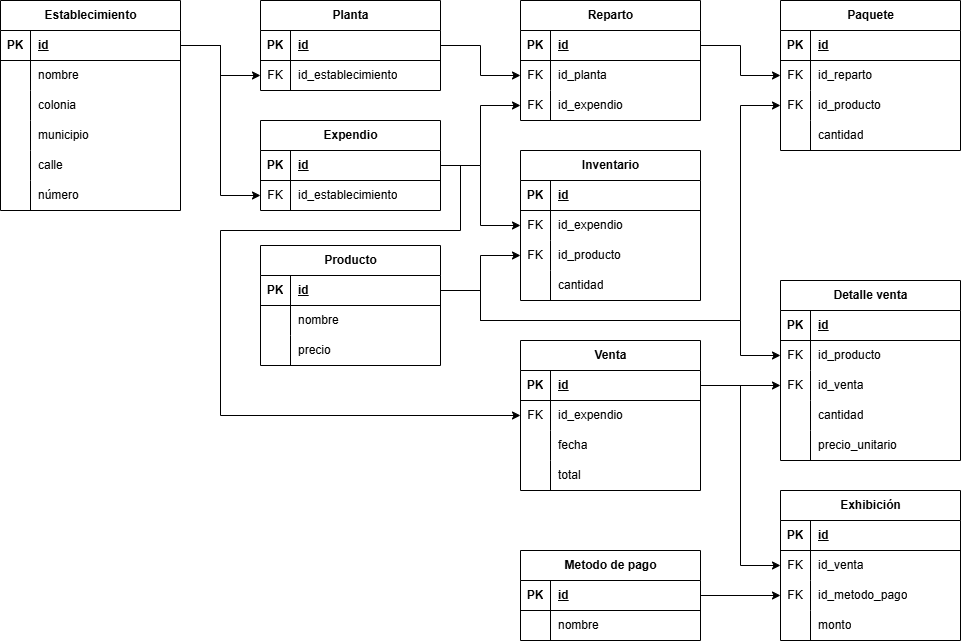
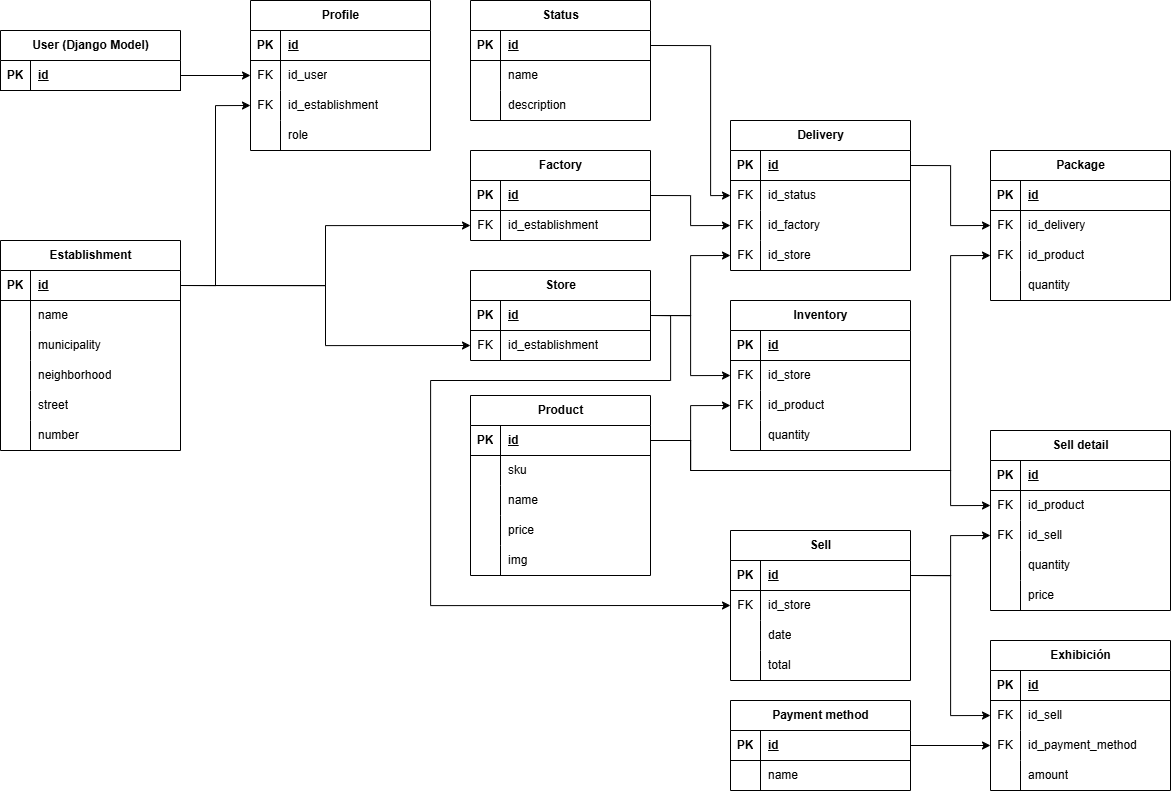
Add Profile model and related serializers, views, and URL routing

diff --git a/apps/api/serializers.py b/apps/api/serializers.py
@@ -1,6 +1,6 @@
 from decimal import Decimal
 
-from django.contrib.auth.models import User
+from django.contrib.auth.models import Group, User
 from django.db import transaction
 from rest_framework import serializers
 
@@ -63,15 +63,55 @@ class NestedMixin:
         return super().update(instance, validated_data)
 
 
+class UserSerializer(serializers.ModelSerializer):
+    password = serializers.CharField(write_only=True, required=False)
+
+    class Meta:
+        model = User
+        fields = ["id", "username", "email", "password", "first_name", "last_name"]
+        read_only_fields = ["id"]
+
+
 class ProfileSerializer(serializers.ModelSerializer):
+    username = serializers.CharField(write_only=True, required=False)
+    email = serializers.EmailField(write_only=True, required=False, allow_blank=True)
+
     class Meta:
         model = models.Profile
-        fields = _basic_fields("establishment")
-        read_only_fields = _basic_fields()
+        fields = _basic_fields("user", "establishment", "role", "username", "email")
+        read_only_fields = _basic_fields("user")
+
+    def _find_establishment_relationship(self, data, key, serializer_class, instance):
+        try:
+            related_instance = getattr(instance.establishment, key)
+            data[key] = serializer_class(related_instance).data
+        except (models.Store.DoesNotExist, models.Factory.DoesNotExist):
+            data[key] = None
+
+    @transaction.atomic
+    def create(self, validated_data):
+        username = validated_data.pop("username")
+        email = validated_data.pop("email")
+        role = validated_data.get("role")
+
+        if not username:
+            raise serializers.ValidationError({"username": "Username is required."})
+
+        new_user = User.objects.create(username=username, email=email)
+        password = "0987654aA"  # TODO: generate random password and sent to email user
+        new_user.set_password(password)
+        new_user.groups.add(Group.objects.get(name=role.capitalize() + " manager"))
+        new_user.save()
+
+        return models.Profile.objects.create(user=new_user, **validated_data)
 
     def to_representation(self, instance):
         res = super().to_representation(instance)
-        res["establishment"] = EstablishmentSerializer(instance.establishment).data
+
+        res["user"] = UserSerializer(instance.user).data
+        self._find_establishment_relationship(res, "store", StoreSerializer, instance)
+        self._find_establishment_relationship(res, "factory", FactorySerializer, instance)
+
         return res
 
 
@@ -83,6 +123,17 @@ class EstablishmentSerializer(serializers.ModelSerializer):
 
     def validate_name(self, value: str) -> str:
         return _unique_name_validator(models.Establishment, self.instance, value)
+
+    def to_representation(self, instance):
+        res = super().to_representation(instance)
+        if hasattr(instance, "factory"):
+            res["type"] = "factory"
+        elif hasattr(instance, "store"):
+            res["type"] = "store"
+        else:
+            res["type"] = None
+
+        return res
 
 
 class FactorySerializer(NestedMixin, serializers.ModelSerializer):
@@ -483,33 +534,3 @@ class PaymentSerializer(serializers.ModelSerializer):
         res["sell"] = SellSerializer(instance.sell).data
         res["payment_method"] = PaymentMethodSerializer(instance.payment_method).data
         return res
-
-
-class UserSerializer(serializers.ModelSerializer):
-    password = serializers.CharField(write_only=True, required=False)
-
-    class Meta:
-        model = User
-        fields = ["id", "username", "email", "password", "first_name", "last_name"]
-        read_only_fields = ["id"]
-
-    def create(self, validated_data):
-        validated_data.pop("password")
-        password = "0987654aA"
-
-        user = User(**validated_data)
-        user.set_password(password)
-        user.save()
-
-        return user
-
-    def update(self, instance, validated_data):
-        password = validated_data.pop("password", None)
-        for attr, value in validated_data.items():
-            setattr(instance, attr, value)
-
-        if password:
-            instance.set_password(password)
-
-        instance.save()
-        return instance

diff --git a/apps/api/views.py b/apps/api/views.py
@@ -3,7 +3,6 @@ from logging import getLogger
 from typing import Any, Literal
 
 from django.contrib.auth.decorators import login_required
-from django.contrib.auth.models import User
 from django.db import transaction
 from django.db.models import Model, QuerySet
 from django.http import StreamingHttpResponse
@@ -132,6 +131,15 @@ class MixinViewSet(viewsets.ModelViewSet):
             return model.objects.none()
 
         return model.objects.none()
+
+
+class EstablishmentViewSet(MixinViewSet):
+    model_name = "establishment"
+    queryset = models.Establishment.objects.all()
+    serializer_class = serializers.EstablishmentSerializer
+    permission_classes = [
+        permission(user=["Factory manager"], can=["see"]),
+    ]
 
 
 class FactoryViewSet(MixinViewSet):
@@ -307,9 +315,10 @@ class PaymentViewSet(MixinViewSet):
     serializer_class = serializers.PaymentSerializer
 
 
-class UserViewSet(viewsets.ModelViewSet):
-    queryset = User.objects.all()
-    serializer_class = serializers.UserSerializer
+class ProfileViewSet(MixinViewSet):
+    model_name = "profile"
+    queryset = models.Profile.objects.all()
+    serializer_class = serializers.ProfileSerializer
     permission_classes = [
         any_of(
             permission(user=["Store manager"], can=["see_self", "update_self"]),

diff --git a/apps/api/urls.py b/apps/api/urls.py
@@ -6,13 +6,14 @@ from . import views
 router = DefaultRouter()
 
 # Ensure that the endpoint is registered in plural form to follow REST conventions
+router.register(r"establishments", views.EstablishmentViewSet)
 router.register(r"factories", views.FactoryViewSet)
 router.register(r"stores", views.StoreViewSet)
 router.register(r"products", views.ProductViewSet)
 router.register(r"deliveries", views.DeliveryViewSet)
 router.register(r"inventories", views.InventoryViewSet, basename="inventory")
 router.register(r"sells", views.SellViewSet, basename="sell")
-router.register(r"users", views.UserViewSet)
+router.register(r"profiles", views.ProfileViewSet, basename="profile")
 
 router.register(r"payment-methods", views.PaymentMethodViewSet)
 router.register(r"sell-details", views.SellDetailViewSet)

diff --git a/apps/api/gossiper.py b/apps/api/gossiper.py
@@ -18,6 +18,7 @@ MODEL = Literal[
     "package",
     "sell_detail",
     "payment",
+    "profile",
 ]
 MODEL_VALUES = MODEL.__args__
 
